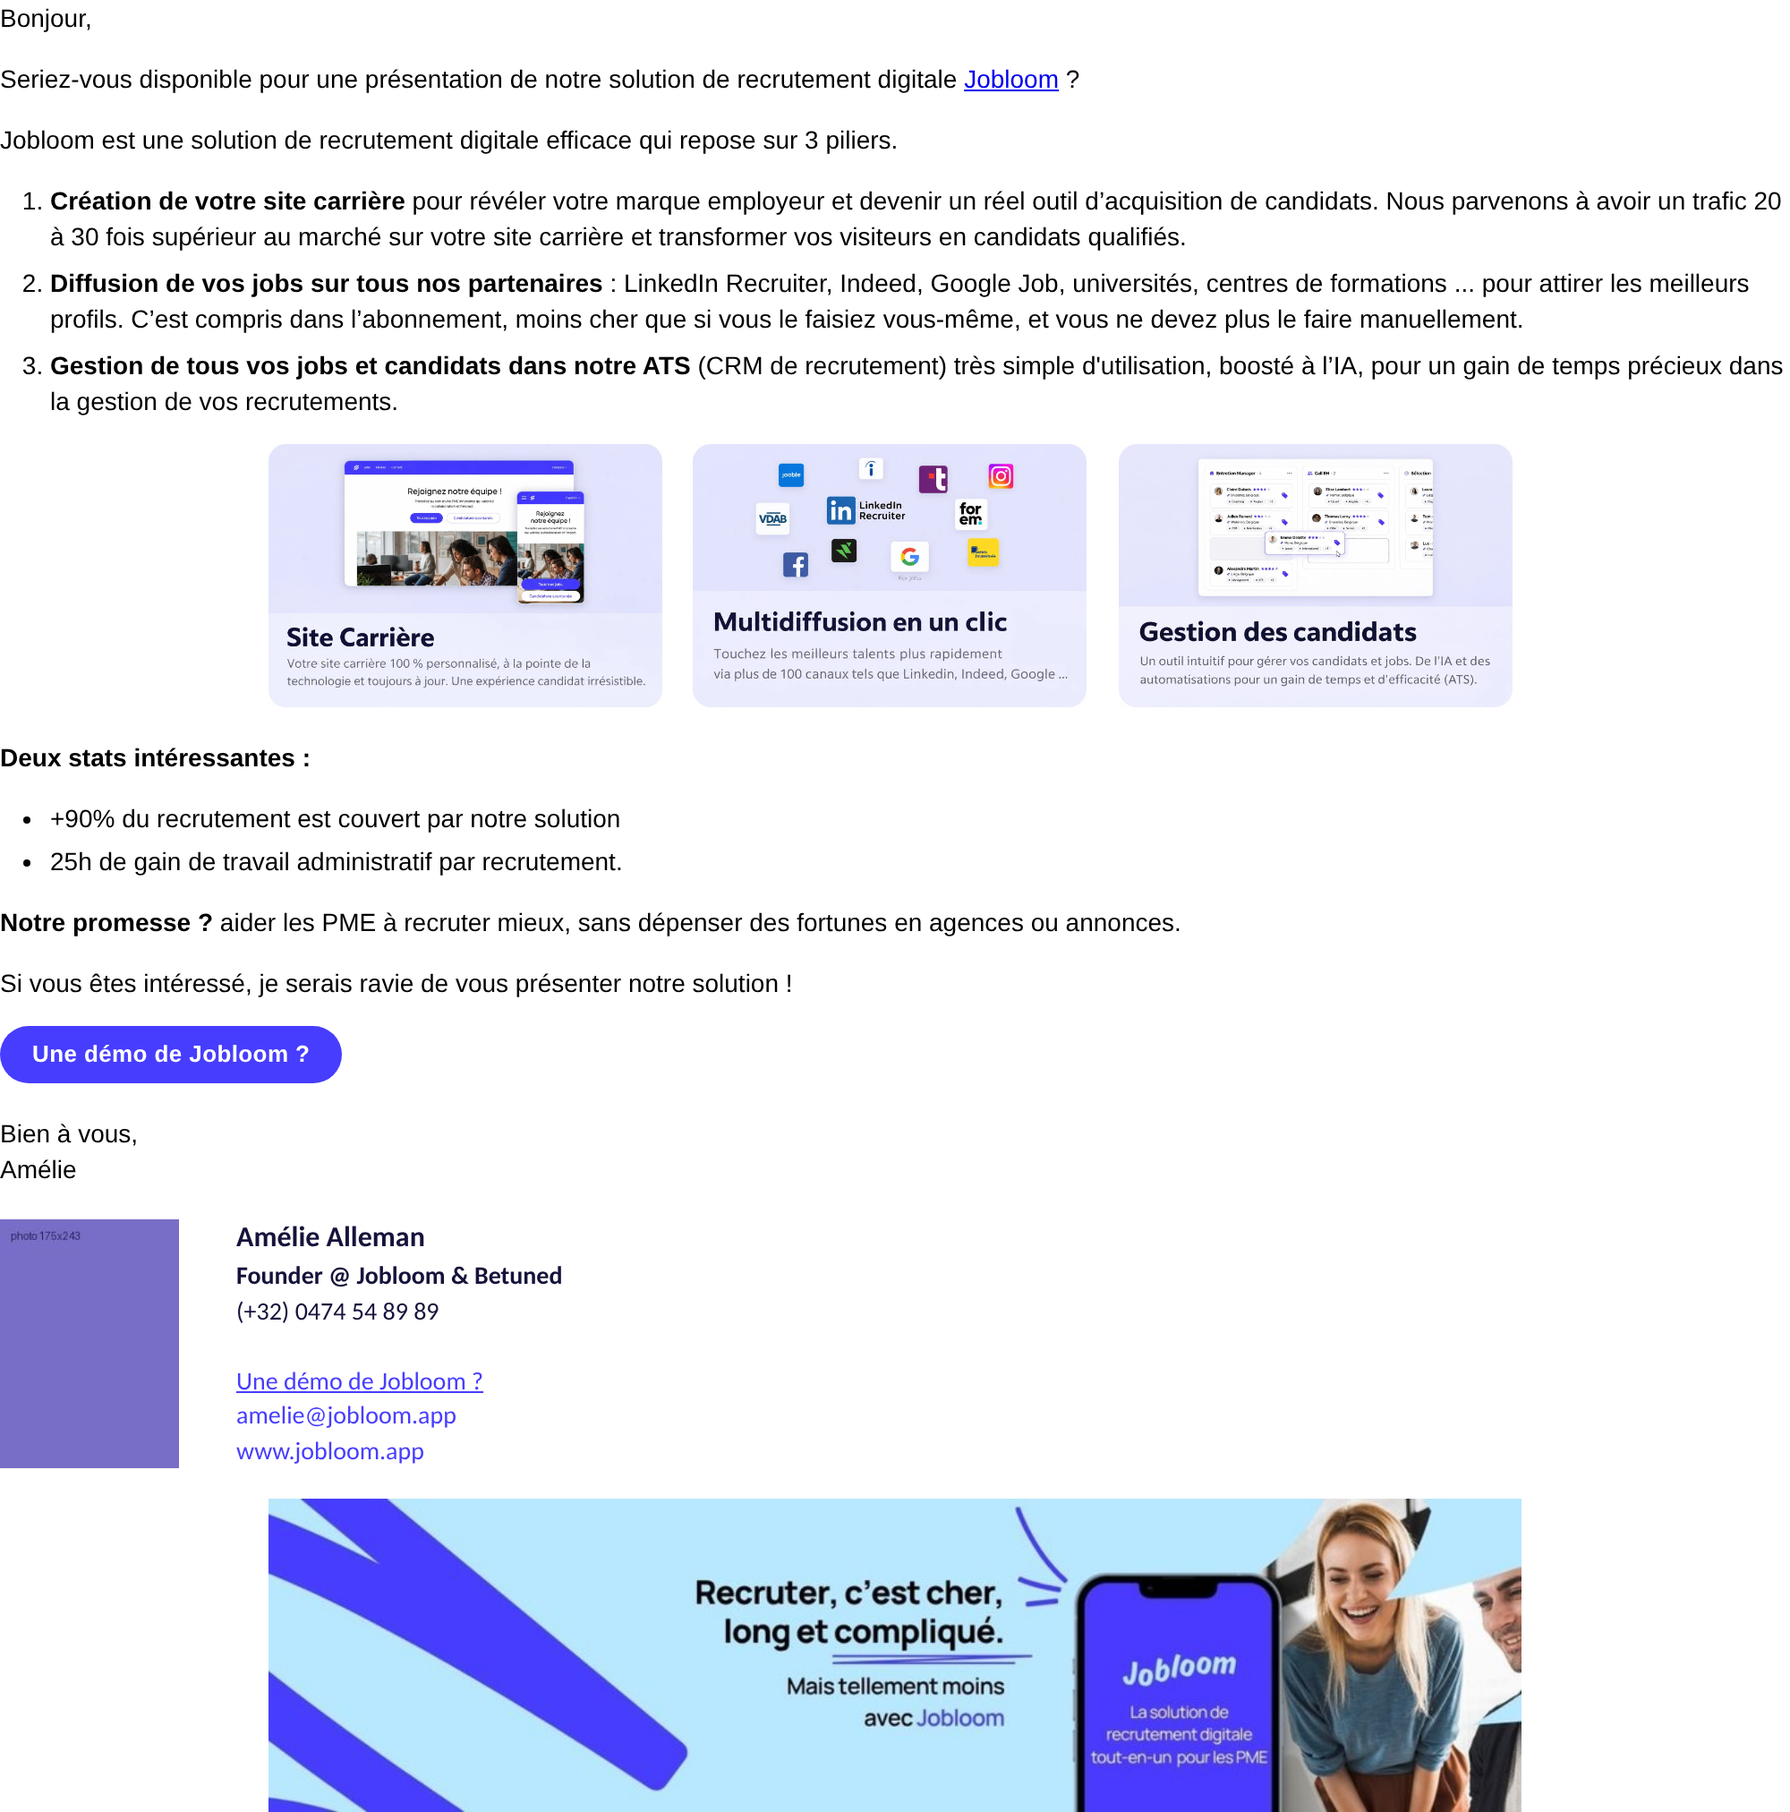
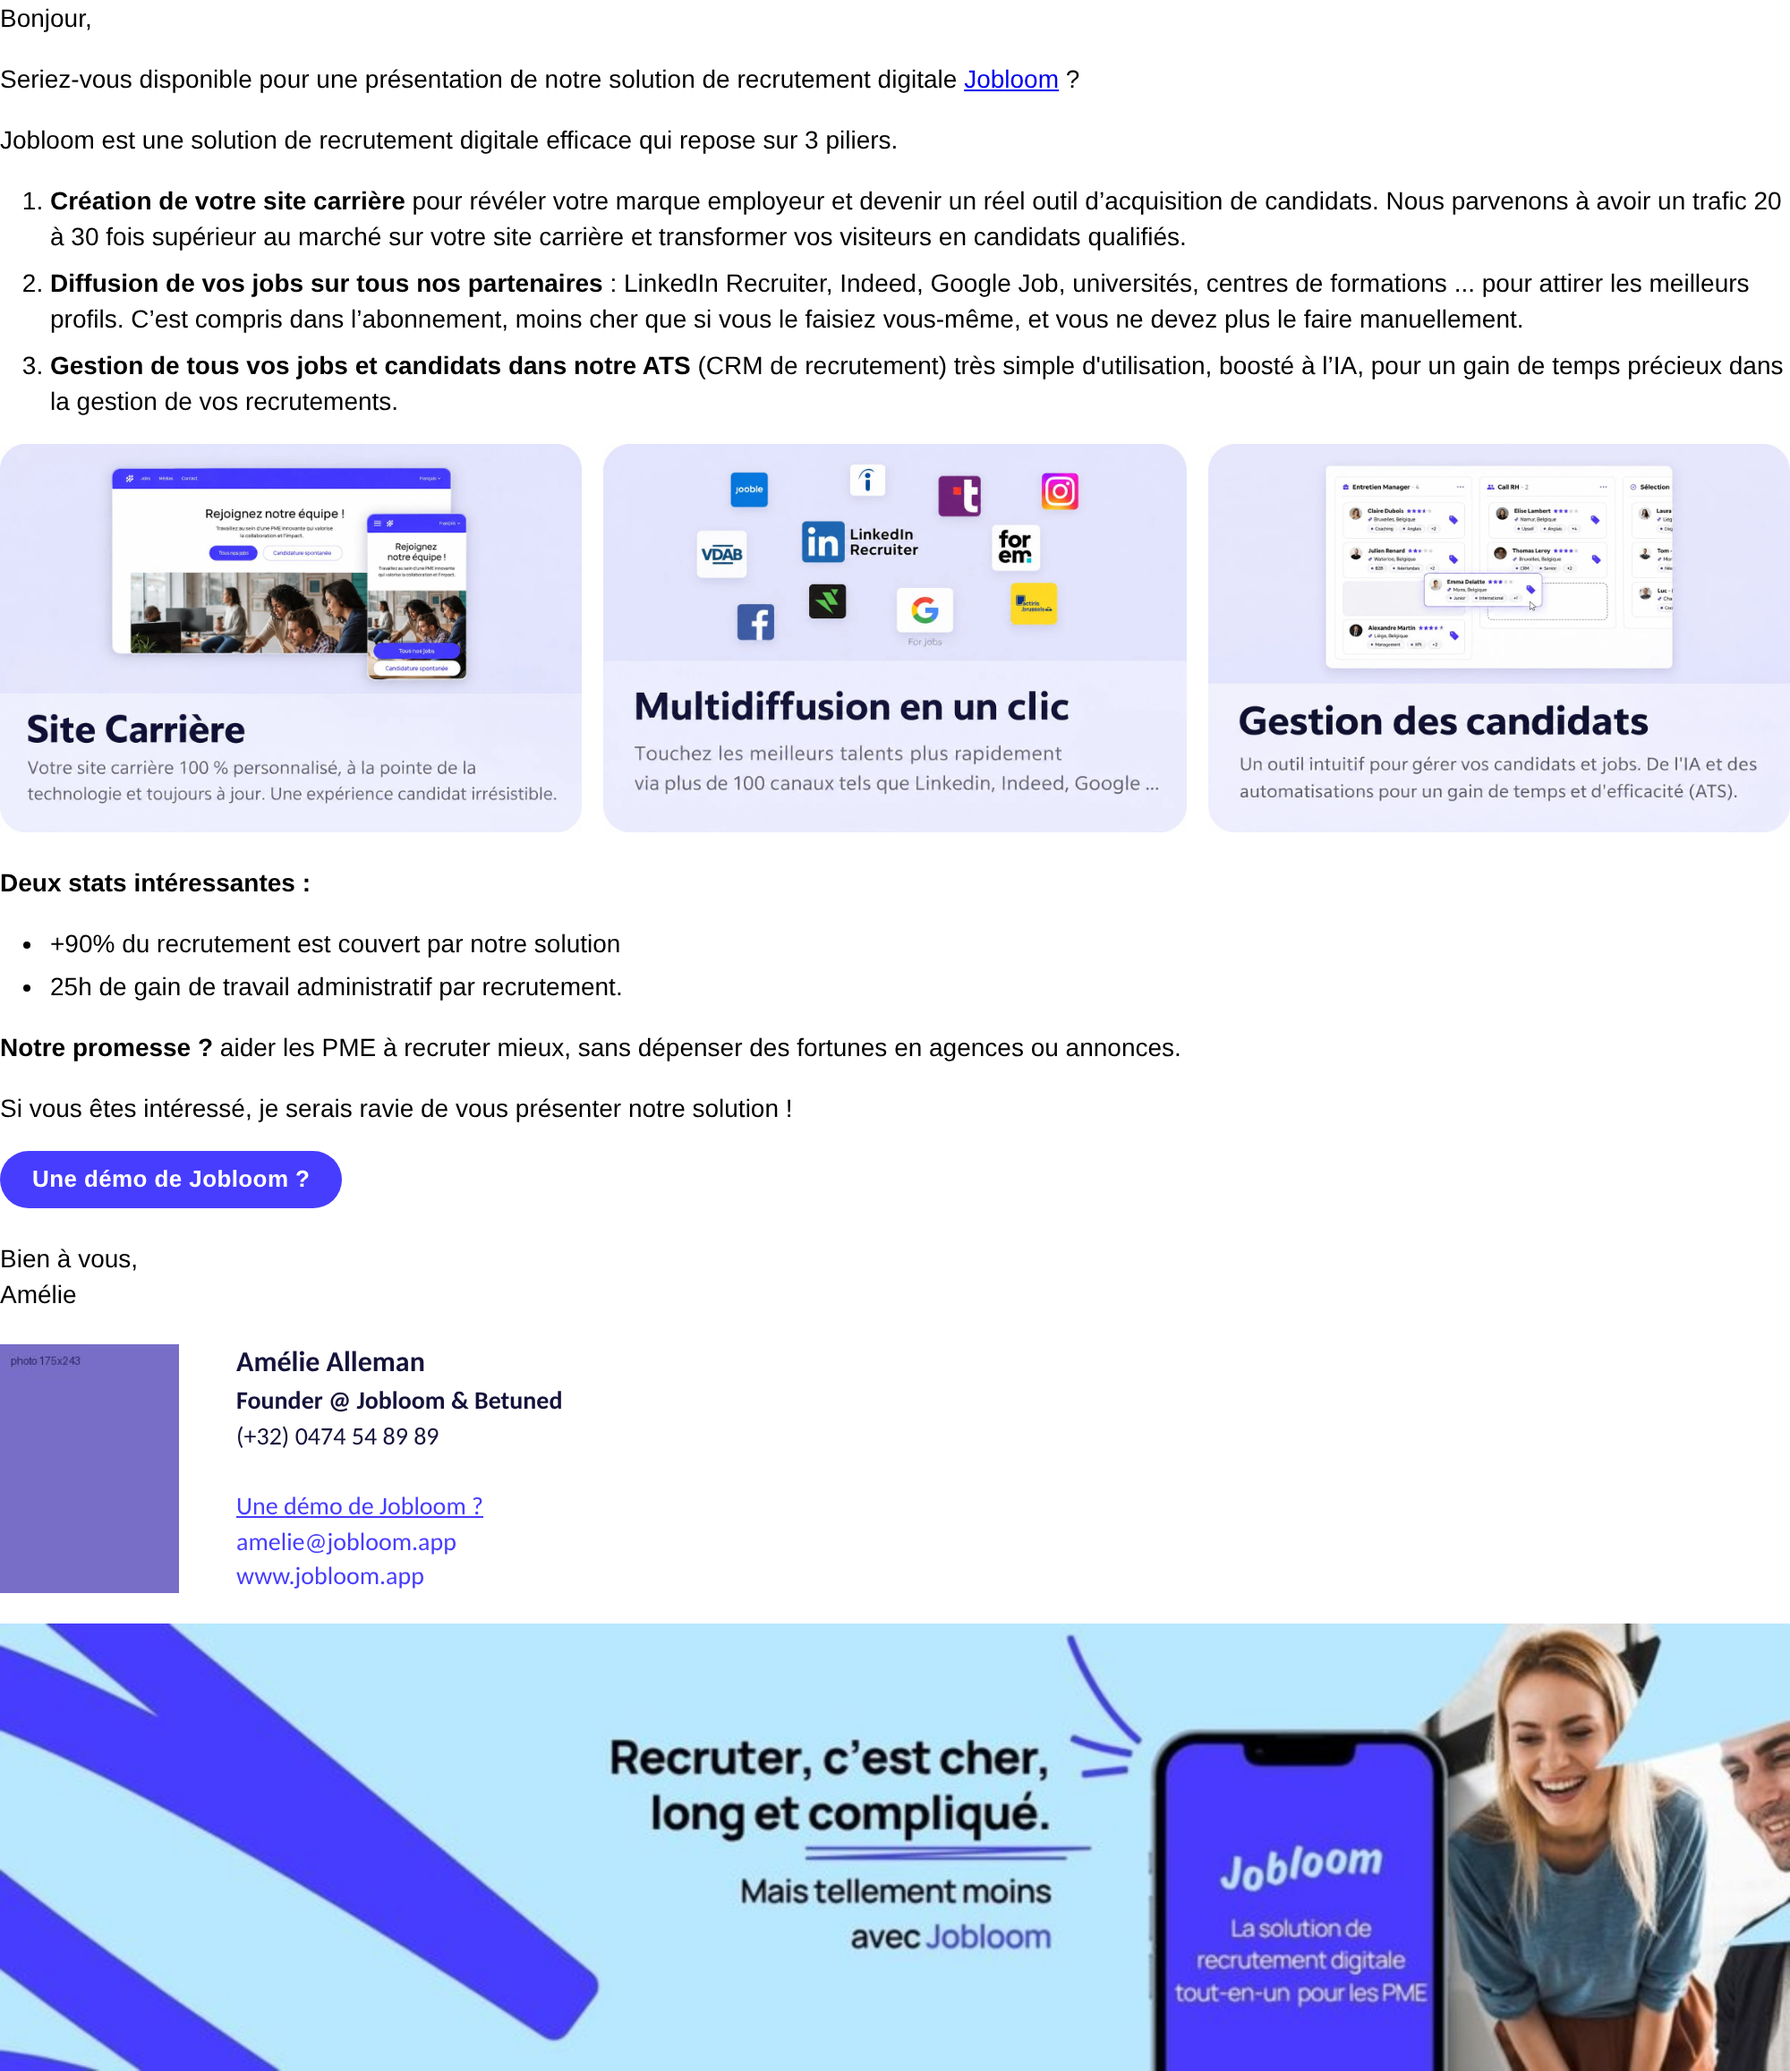
Email Amélie : cartes et bannière sur toute la largeur de la colonne
Claude-Session: https://claude.ai/code/session_01XTeiUwKp5X2MxE8FSKHjU9

Changed region(s): [[0.0, 0.0, 1.0, 1.0]]

diff --git a/email-livrable/email_1st_Amelie_final.html b/email-livrable/email_1st_Amelie_final.html
@@ -40,7 +40,7 @@ li{margin-left:0 !important;}</style>
 <li style="margin:0 0 6px 0"><b>Diffusion de vos jobs sur tous nos partenaires&nbsp;</b>: LinkedIn Recruiter, Indeed, Google Job, universités, centres de formations ... pour attirer les meilleurs profils. C’est compris dans l’abonnement, moins cher que si vous le faisiez vous-même, et vous ne devez plus le faire manuellement.</li>
 <li style="margin:0"><b>Gestion de tous vos jobs et candidats dans notre ATS</b> (CRM de recrutement) très simple d'utilisation, boosté à l’IA, pour un gain de temps précieux dans la gestion de vos recrutements.</li>
 </ol>
-<table role="presentation" class="cards" cellpadding="0" cellspacing="0" border="0" width="100%" align="center" style="border-collapse:collapse;width:100%;max-width:700px;margin:4px auto 18px auto"><tr><td class="cardtd" width="33%" valign="top" style="width:33.33%;padding:0 8px 0 0"><a href="https://www.jobloom.app/" style="text-decoration:none"><!--[if mso]><img src="https://jobloom-landing-pages-massimoharnisfeger-hues-projects.vercel.app/signature/pilier-1.jpg" width="220" height="147" alt="Site Carrière" style="display:block;width:220px;height:147px;border:0"><![endif]--><!--[if !mso]><!--><img src="https://jobloom-landing-pages-massimoharnisfeger-hues-projects.vercel.app/signature/pilier-1.jpg" width="1536" height="1024" alt="Site Carrière" style="display:block;width:100%;max-width:220px;height:auto;border:0"><!--<![endif]--></a></td><td class="cardtd" width="33%" valign="top" style="width:33.33%;padding:0 4px"><a href="https://www.jobloom.app/" style="text-decoration:none"><!--[if mso]><img src="https://jobloom-landing-pages-massimoharnisfeger-hues-projects.vercel.app/signature/pilier-2.jpg" width="220" height="147" alt="Multidiffusion en un clic" style="display:block;width:220px;height:147px;border:0"><![endif]--><!--[if !mso]><!--><img src="https://jobloom-landing-pages-massimoharnisfeger-hues-projects.vercel.app/signature/pilier-2.jpg" width="1536" height="1024" alt="Multidiffusion en un clic" style="display:block;width:100%;max-width:220px;height:auto;border:0"><!--<![endif]--></a></td><td class="cardtd" width="33%" valign="top" style="width:33.33%;padding:0 0 0 8px"><a href="https://www.jobloom.app/" style="text-decoration:none"><!--[if mso]><img src="https://jobloom-landing-pages-massimoharnisfeger-hues-projects.vercel.app/signature/pilier-3.jpg" width="220" height="147" alt="Gestion des candidats" style="display:block;width:220px;height:147px;border:0"><![endif]--><!--[if !mso]><!--><img src="https://jobloom-landing-pages-massimoharnisfeger-hues-projects.vercel.app/signature/pilier-3.jpg" width="1536" height="1024" alt="Gestion des candidats" style="display:block;width:100%;max-width:220px;height:auto;border:0"><!--<![endif]--></a></td></tr></table>
+<table role="presentation" class="cards" cellpadding="0" cellspacing="0" border="0" width="100%" align="center" style="border-collapse:collapse;width:100%;margin:4px auto 18px auto"><tr><td class="cardtd" width="33%" valign="top" style="width:33.33%;padding:0 8px 0 0"><a href="https://www.jobloom.app/" style="text-decoration:none"><!--[if mso]><img src="https://jobloom-landing-pages-massimoharnisfeger-hues-projects.vercel.app/signature/pilier-1.jpg" width="258" height="172" alt="Site Carrière" style="display:block;width:258px;height:172px;border:0"><![endif]--><!--[if !mso]><!--><img src="https://jobloom-landing-pages-massimoharnisfeger-hues-projects.vercel.app/signature/pilier-1.jpg" width="1536" height="1024" alt="Site Carrière" style="display:block;width:100%;max-width:512px;height:auto;border:0"><!--<![endif]--></a></td><td class="cardtd" width="33%" valign="top" style="width:33.33%;padding:0 4px"><a href="https://www.jobloom.app/" style="text-decoration:none"><!--[if mso]><img src="https://jobloom-landing-pages-massimoharnisfeger-hues-projects.vercel.app/signature/pilier-2.jpg" width="258" height="172" alt="Multidiffusion en un clic" style="display:block;width:258px;height:172px;border:0"><![endif]--><!--[if !mso]><!--><img src="https://jobloom-landing-pages-massimoharnisfeger-hues-projects.vercel.app/signature/pilier-2.jpg" width="1536" height="1024" alt="Multidiffusion en un clic" style="display:block;width:100%;max-width:512px;height:auto;border:0"><!--<![endif]--></a></td><td class="cardtd" width="33%" valign="top" style="width:33.33%;padding:0 0 0 8px"><a href="https://www.jobloom.app/" style="text-decoration:none"><!--[if mso]><img src="https://jobloom-landing-pages-massimoharnisfeger-hues-projects.vercel.app/signature/pilier-3.jpg" width="258" height="172" alt="Gestion des candidats" style="display:block;width:258px;height:172px;border:0"><![endif]--><!--[if !mso]><!--><img src="https://jobloom-landing-pages-massimoharnisfeger-hues-projects.vercel.app/signature/pilier-3.jpg" width="1536" height="1024" alt="Gestion des candidats" style="display:block;width:100%;max-width:512px;height:auto;border:0"><!--<![endif]--></a></td></tr></table>
 <p style="margin:0 0 14px 0"><b>Deux stats intéressantes&nbsp;:</b></p>
 <ul class="list" style="margin:0 0 14px 0;padding-left:28px">
 <li style="margin:0 0 4px 0">+90% du recrutement est couvert par notre solution</li>
@@ -74,8 +74,8 @@ li{margin-left:0 !important;}</style>
 </tr>
 </table>
 <table role="presentation" cellpadding="0" cellspacing="0" border="0" width="100%" style="border-collapse:collapse;width:100%;margin:16px 0 0 0"><tr><td align="center" style="padding:0"><a href="https://www.jobloom.app/agenda" style="text-decoration:none">
-<!--[if mso]><img src="https://jobloom-landing-pages-massimoharnisfeger-hues-projects.vercel.app/signature/banniere-jobloom.jpg" width="700" height="175" alt="Recruter, c'est cher, long et compliqué. Mais tellement moins avec Jobloom" style="display:block;width:700px;height:175px;border:0"><![endif]-->
-<!--[if !mso]><!--><img src="https://jobloom-landing-pages-massimoharnisfeger-hues-projects.vercel.app/signature/banniere-jobloom.jpg" width="1000" height="250" alt="Recruter, c'est cher, long et compliqué. Mais tellement moins avec Jobloom" style="display:block;width:100%;max-width:700px;height:auto;border:0;margin:0 auto"><!--<![endif]-->
+<!--[if mso]><img src="https://jobloom-landing-pages-massimoharnisfeger-hues-projects.vercel.app/signature/banniere-jobloom.jpg" width="800" height="200" alt="Recruter, c'est cher, long et compliqué. Mais tellement moins avec Jobloom" style="display:block;width:800px;height:200px;border:0"><![endif]-->
+<!--[if !mso]><!--><img src="https://jobloom-landing-pages-massimoharnisfeger-hues-projects.vercel.app/signature/banniere-jobloom.jpg" width="1000" height="250" alt="Recruter, c'est cher, long et compliqué. Mais tellement moins avec Jobloom" style="display:block;width:100%;height:auto;border:0;margin:0 auto"><!--<![endif]-->
 </a></td></tr></table>
 </div>
 <!--[if mso]></td></tr></table><![endif]-->
